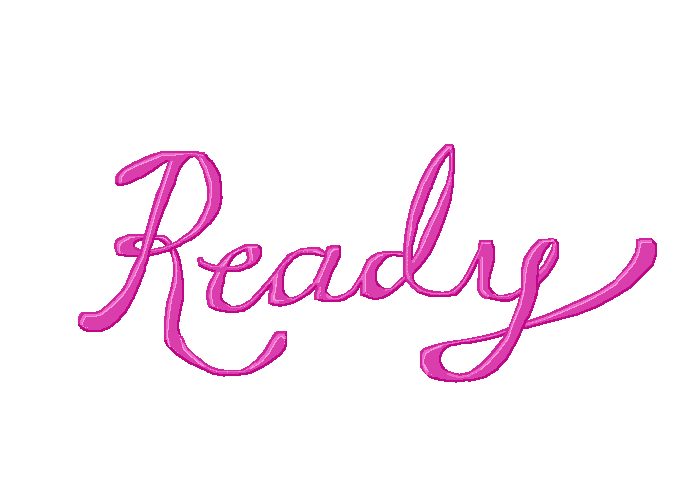
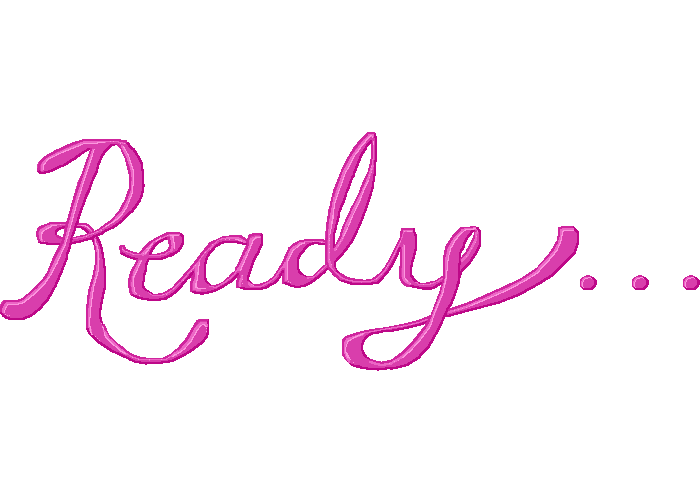
GameInit.js, etc: working on cleaning up UI

Changed region(s): [[0.0, 0.27, 0.96, 0.78], [0.96, 0.54, 1.0, 0.6]]

diff --git a/public/style.css b/public/style.css
@@ -45,19 +45,9 @@ body {
 
 .gameItem {
   z-index: 10;
-  /* border: 5px solid white; */
 }
 
-/* #marker {
-  z-index: 100;
-  position: fixed;
-  top: 200;
-  left: 200;
-} */
-
 .loading {
-  /* margin-top: 200px;
-  margin-left: 300px; */
   height: 200px;
   margin: 0 auto;
   position: absolute;
@@ -82,13 +72,13 @@ body {
   transform: translate(-50%, -50%);
 
   /* fade out: */
-  -moz-animation: cssAnimation 0s ease-in 13s forwards;
+  -moz-animation: cssAnimation 0s ease-in 6s forwards;
   /* Firefox */
-  -webkit-animation: cssAnimation 0s ease-in 13s forwards;
+  -webkit-animation: cssAnimation 0s ease-in 6s forwards;
   /* Safari and Chrome */
-  -o-animation: cssAnimation 0s ease-in 13s forwards;
+  -o-animation: cssAnimation 0s ease-in 6s forwards;
   /* Opera */
-  animation: cssAnimation 0s ease-in 13s forwards;
+  animation: cssAnimation 0s ease-in 6s forwards;
   -webkit-animation-fill-mode: forwards;
   animation-fill-mode: forwards;
 }
@@ -119,9 +109,11 @@ body {
 
 .getIntoTheFrame {
   z-index: 8;
-  /* position: fixed;
-  top: 50px;
-  left: 300px */
+  margin: 0 auto;
+  position: absolute;
+  top: 0;
+  left: 50%;
+  transform: translate(-50%);
 }
 
 #ready {
@@ -133,13 +125,13 @@ body {
   transform: translate(-50%, -50%);
 
   /* fade out: */
-  -moz-animation: cssAnimation 0s ease-in 3s forwards;
+  -moz-animation: cssAnimation 0s ease-in 5s forwards;
   /* Firefox */
-  -webkit-animation: cssAnimation 0s ease-in 3s forwards;
+  -webkit-animation: cssAnimation 0s ease-in 5s forwards;
   /* Safari and Chrome */
-  -o-animation: cssAnimation 0s ease-in 3s forwards;
+  -o-animation: cssAnimation 0s ease-in 5s forwards;
   /* Opera */
-  animation: cssAnimation 0s ease-in 3s forwards;
+  animation: cssAnimation 0s ease-in 5s forwards;
   -webkit-animation-fill-mode: forwards;
   animation-fill-mode: forwards;
 }

diff --git a/client/components/Game.js b/client/components/Game.js
@@ -8,7 +8,8 @@ class Game extends Component {
   constructor(props) {
     super(props)
     this.state = {
-      score: 0
+      score: 0,
+      won: false
     }
     this.startGame = this.startGame.bind(this)
   }
@@ -26,7 +27,7 @@ class Game extends Component {
 
   // THE GAME
   startGame() {
-    if (this.props.keypoints.length) {
+    if (this.props.keypoints.length && !this.state.won) {
       for (let i = 0; i < 2; i++) {
         const rightWristCoords = findPoint('rightWrist', this.props.keypoints)
         const itemCoords = {
@@ -65,11 +66,17 @@ class Game extends Component {
           }
         }
       }
+      if (this.state.score >= 100) {
+        console.log('YOU WON!!!')
+        this.setState({
+          won: true
+        })
+      }
     }
   }
 
   render() {
-    if (this.props.initialBody.keypoints) {
+    if (this.props.initialBody.keypoints && !this.state.won) {
       const item1 = this.props.gameItems[0]
       const item2 = this.props.gameItems[1]
 
@@ -93,6 +100,12 @@ class Game extends Component {
               width={item2.width}
             />
           </div>
+        </div>
+      )
+    } else if (this.state.won) {
+      return (
+        <div>
+          <div id="score">Score: {this.state.score}</div>
         </div>
       )
     } else return <div />

diff --git a/client/components/GameInit.js b/client/components/GameInit.js
@@ -4,18 +4,24 @@ import {connect} from 'react-redux'
 const GameInit = props => {
   const getIntoTheFrame =
     !props.initialBody.keypoints && !props.loading ? (
-      <img className="getIntoTheFrame" src="/assets/movePrompt.png" />
+      <img className="getIntoTheFrame" src="/assets/movePrompt.gif" />
+    ) : null
+
+  const ready =
+    props.initialBody.keypoints && !props.loading ? (
+      <img id="ready" src="/assets/ready.gif" />
     ) : null
 
   return (
     <div>
       {getIntoTheFrame}
-      <div id="countdownDiv" className="centered">
+      {ready}
+      {/* <div id="countdownDiv" className="centered">
         <img id="countdownGif" src="/assets/countdown.gif" />
-      </div>
+      </div> */}
     </div>
   )
-}
+} //NOTE: is the countdown even necessary??
 
 const mapStateToProps = state => {
   return {

diff --git a/public/index.html b/public/index.html
@@ -1,23 +1,8 @@
-<!-- <!DOCTYPE html>
-<html>
-  <head>
-    <meta charset='utf-8'>
-    <meta name='viewport' content='width=device-width initial-scale=1.0'>
-    <title>Boilermaker</title>
-    <link rel="stylesheet" href="/style.css" />
-    <script defer src="/bundle.js"></script>
-  </head>
-  <body>
-    <div id="app"></div>
-  </body>
-</html>
- -->
-
 <!DOCTYPE html>
 <html>
 
 <head>
-    <title>Hit It!!</title>
+    <title>Fruit Punch</title>
     <link rel="stylesheet" href="/style.css" />
     <meta name="viewport" content="width=device-width, initial-scale=1">
 </head>

diff --git a/client/components/Camera.js b/client/components/Camera.js
@@ -212,7 +212,7 @@ class PoseNet extends Component {
   }
 
   render() {
-    const {loading, game, gameInit, ready} = variablesForCameraRender(
+    const {loading, game, gameInit} = variablesForCameraRender(
       this.state.loading
     )
 
@@ -223,7 +223,6 @@ class PoseNet extends Component {
           <video id="videoNoShow" playsInline ref={this.getVideo} />
           {gameInit}
           {game}
-          {ready}
           <canvas className="webcam" ref={this.getCanvas} />
         </div>
       </div>

diff --git a/client/components/utils/index.js b/client/components/utils/index.js
@@ -174,15 +174,9 @@ export const variablesForCameraRender = loadingStatus => {
 
   const gameInit = loadingStatus ? null : <GameInit loading={loadingStatus} />
 
-  const ready =
-    state.initialBody.keypoints && !loadingStatus ? (
-      <img id="ready" src="/assets/ready.png" />
-    ) : null
-
   return {
     loading,
     game,
-    gameInit,
-    ready
+    gameInit
   }
 }
